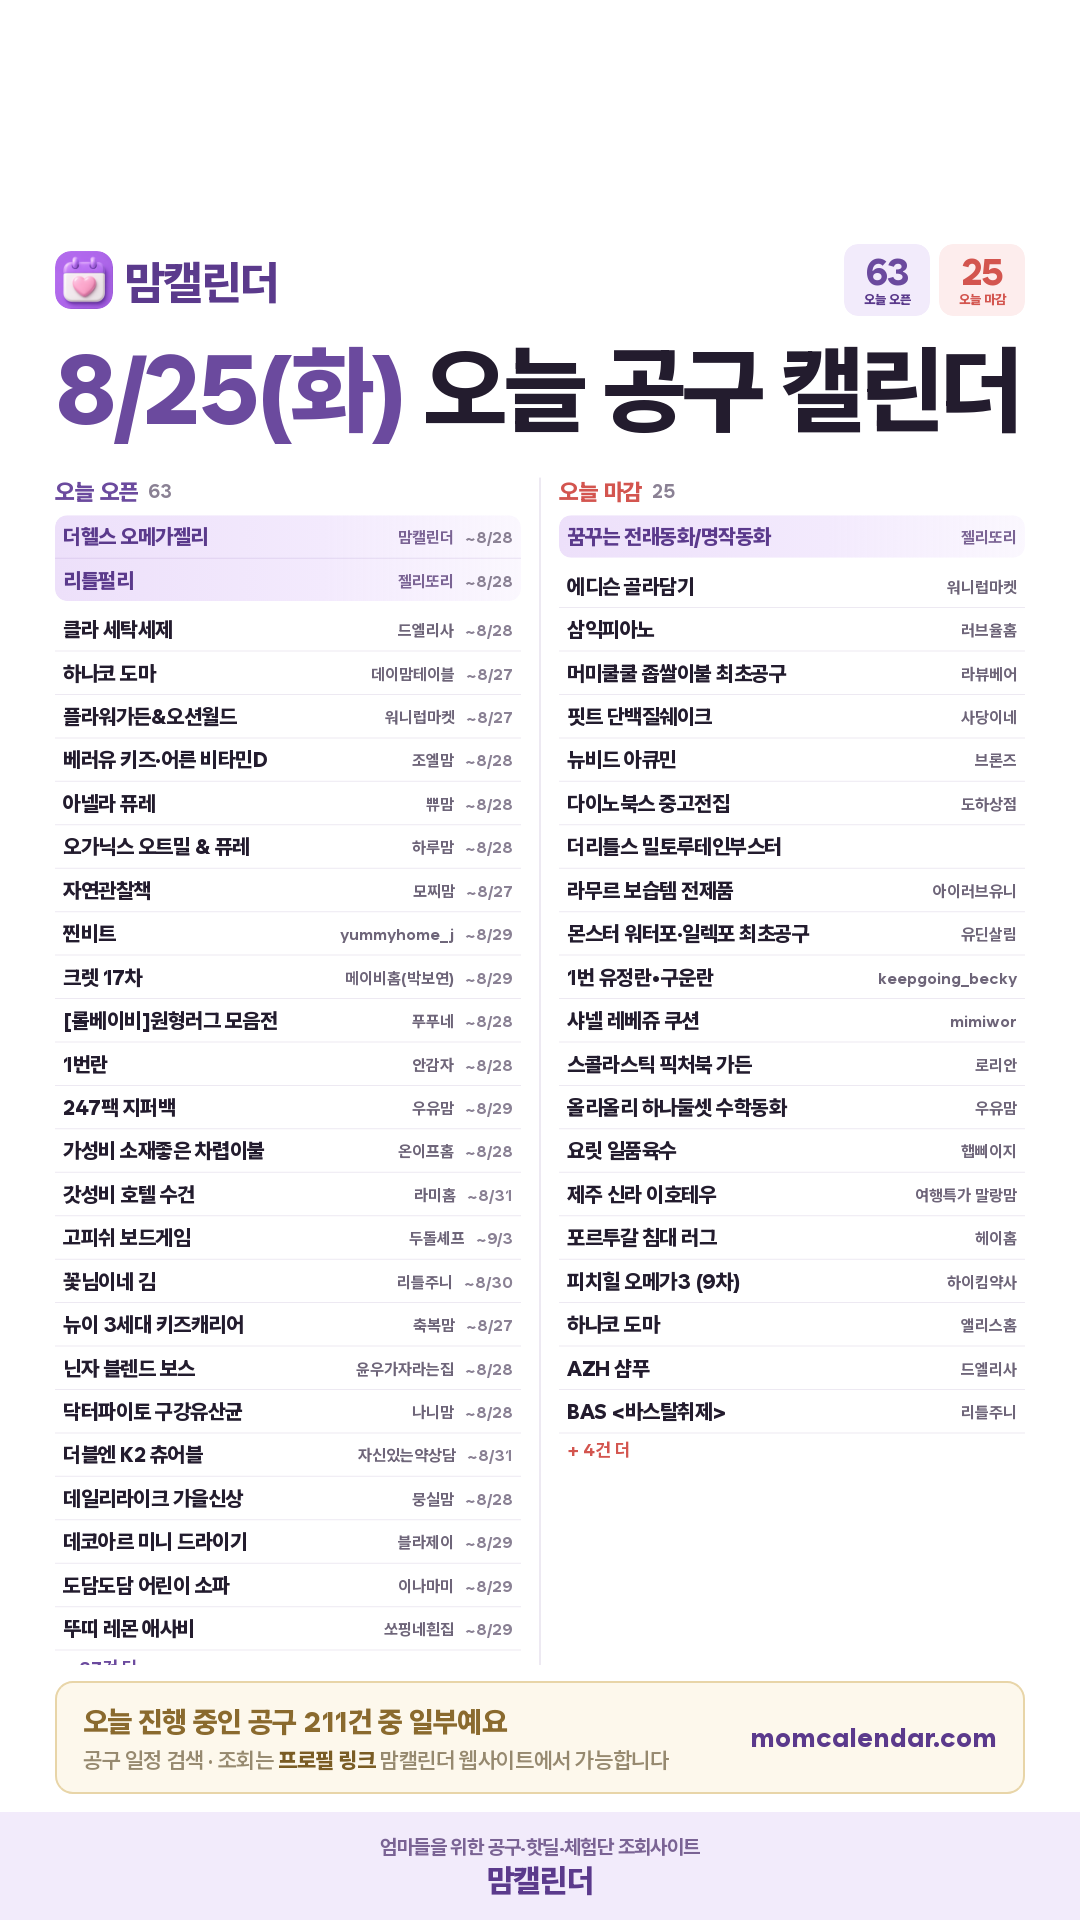
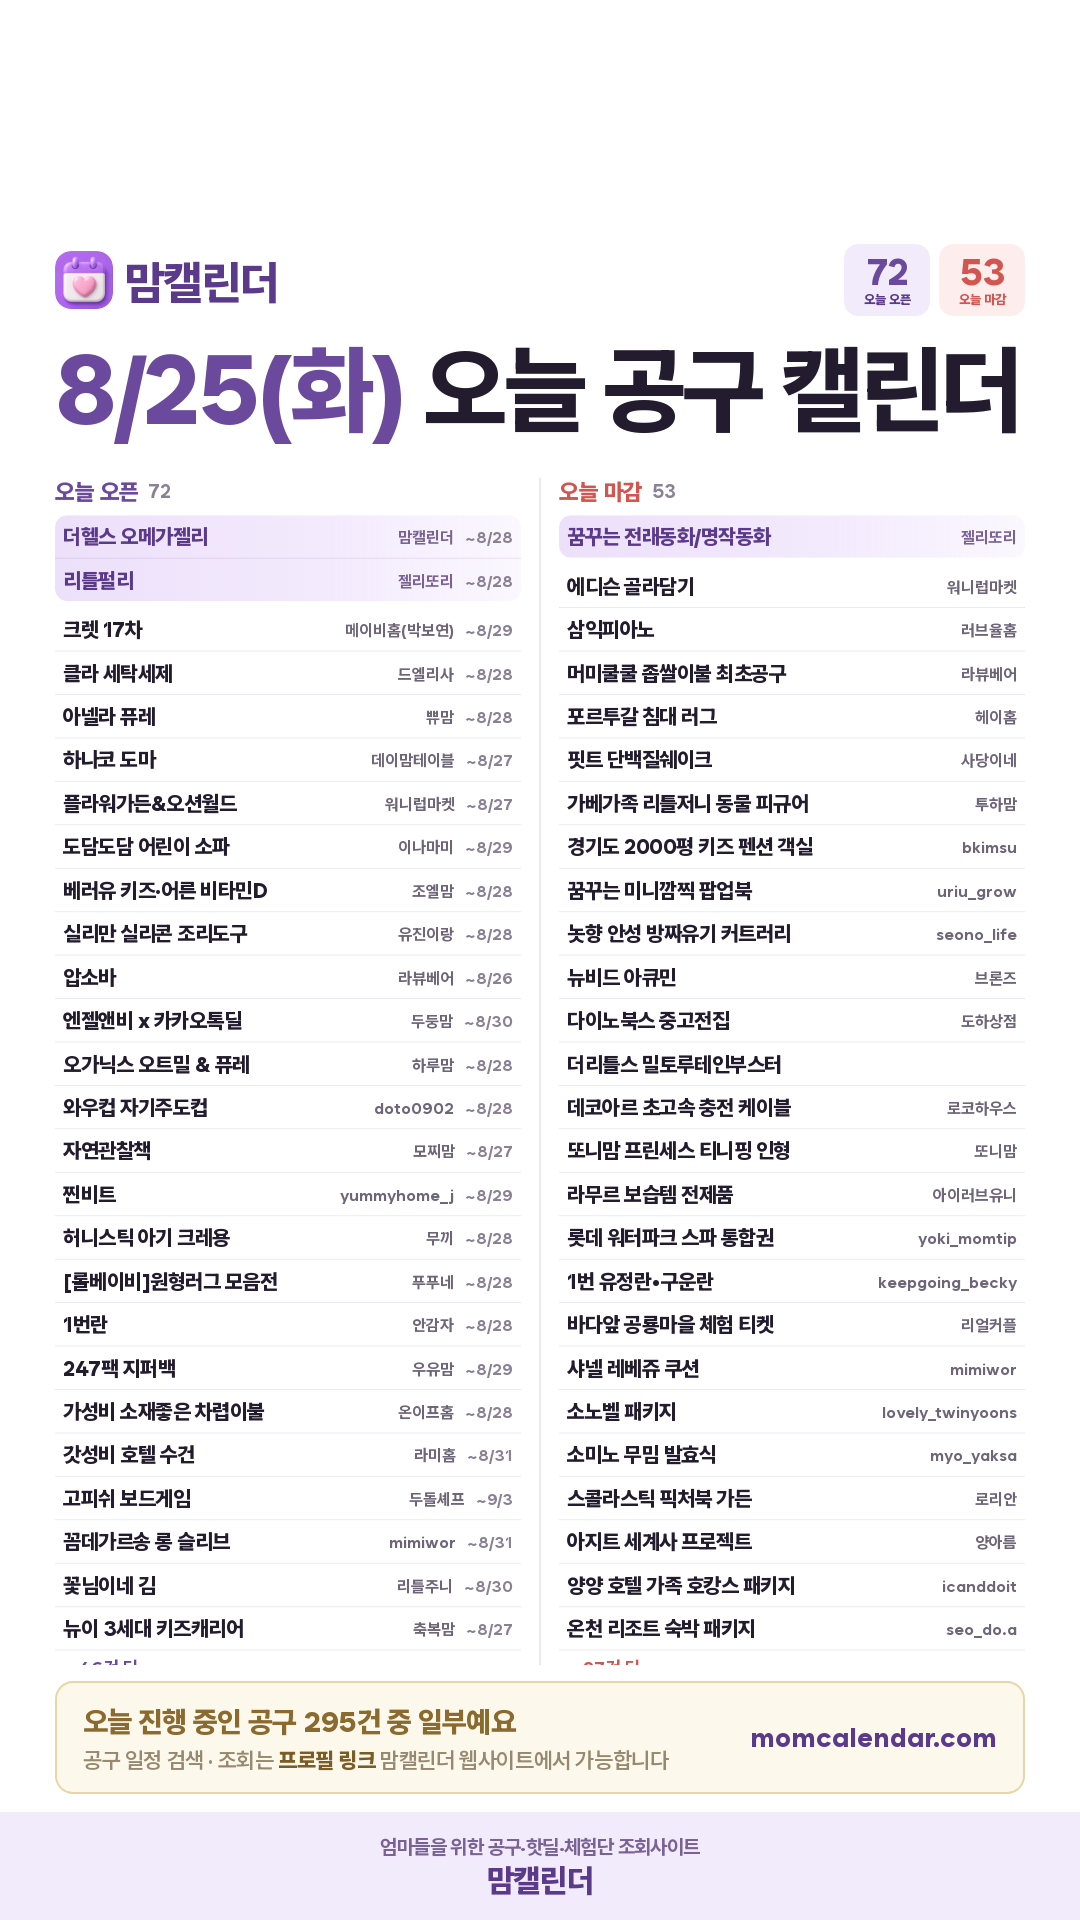
아침 인스타 카드 (2026-08-24)

diff --git a/daily/2026-08-25.html b/daily/2026-08-25.html
@@ -19,7 +19,7 @@ textarea{width:100%;height:260px;border:1px solid #E3DCEF;border-radius:10px;pad
 .todo p{font-size:12.5px;color:#6B6379;line-height:1.75;margin-top:6px}
 .todo a{color:#5B2E8C;font-weight:700}
 </style></head><body>
-<div class="hd"><div class="wrap"><h1>8월 25일(화) 인스타 카드</h1><p>오픈 63건 · 마감 25건</p></div></div>
+<div class="hd"><div class="wrap"><h1>8월 25일(화) 인스타 카드</h1><p>오픈 72건 · 마감 53건</p></div></div>
 <div class="wrap">
   
   <div class="card"><img src="./2026-08-25.png" alt="오늘 공구 카드"></div>
@@ -30,7 +30,7 @@ textarea{width:100%;height:260px;border:1px solid #E3DCEF;border-radius:10px;pad
 맘캘린더에서 공유드리는
 8월 25일(화) 오늘 공구 캘린더
 
-오픈 60건 · 마감 21건
+오픈 70건 · 마감 43건
 
 ━━━━━━━━━━━━━━
 
@@ -39,21 +39,28 @@ textarea{width:100%;height:260px;border:1px solid #E3DCEF;border-radius:10px;pad
 · 리틀펄리 — 젤리또리 @jelly_ddori (~8/28)
 
 🔓 오늘 오픈하는 공구
+· 크렛 17차 — 메이비홈(박보연) (~8/29)
 · 클라 세탁세제 — 드엘리사 (~8/28)
+· 아넬라 퓨레 — 쀼맘 (~8/28)
 · 하나코 도마 — 데이맘테이블 (~8/27)
 · 꼬비 플라워가든&amp;오션월드 — 워니럽마켓 (~8/27)
+· 도담도담 어린이 소파 — 이나마미 (~8/29)
 · 베러유 키즈·어른 비타민D — 조엘맘 (~8/28)
-· 아넬라 퓨레 — 쀼맘 (~8/28)
+· 실리만 플래티넘 실리콘 조리도구 — 유진이랑 (~8/28)
+· 압소바 — 라뷰베어 (~8/26)
+· 엔젤앤비 x 카카오톡딜 — 두둥맘 (~8/30)
 · 오가닉스 오트밀 &amp; 퓨레 — 하루맘 (~8/28)
+· 와우컵 자기주도컵 — doto0902 (~8/28)
 · 자연관찰책 — 모찌맘 (~8/27)
 · 찐비트 — yummyhome_j (~8/29)
-· 크렛 17차 — 메이비홈(박보연) (~8/29)
+· 허니스틱 비즈왁스 아기 크레용 — 무끼 (~8/28)
 · [롤베이비]원형러그 모음전 — 푸푸네 (~8/28)
 · 1번란 — 안감자 (~8/28)
 · 247팩 지퍼백 — 우유맘 (~8/29)
 · 가성비 소재좋은 차렵이불 — 온이프홈 (~8/28)
 · 갓성비 호텔 수건 — 라미홈 (~8/31)
 · 고피쉬 보드게임 — 두돌셰프 (~9/3)
+· 꼼데가르송 &amp; 메종키츠네 롱 슬리브 기획전 — mimiwor (~8/31)
 · 꽃님이네 김 — 리틀주니 (~8/30)
 · 뉴이 3세대 키즈캐리어 — 축복맘 (~8/27)
 · 닌자 블렌드 보스 — 윤우가자라는집 (~8/28)
@@ -61,51 +68,40 @@ textarea{width:100%;height:260px;border:1px solid #E3DCEF;border-radius:10px;pad
 · 더블엔 비타민D K2 츄어블 — 자신있는약상담 (~8/31)
 · 데일리라이크 가을신상 — 뭉실맘 (~8/28)
 · 데코아르 초경량 미니 드라이기 — 블라제이 (~8/29)
-· 도담도담 어린이 소파 — 이나마미 (~8/29)
-· 뚜띠 올리브·레몬·애사비 — 쏘핑네흰집 (~8/29)
-· 리얼더마 — 유한나 (~8/28)
-· 마켓올슨 17차 — simply_recipe (~8/28)
-· 뮤이 안심커버 — 애플맘 (~8/27)
-· 미닉스 미니 김치냉장고 — 뚜비두밥 (~8/27)
-· 미라클 갈비탕 — miracle_eunju119 (~8/26)
-· 빠이염 — 우동맘 (~8/28)
-· 뽀로로 책상·의자 — 주원맘 (~8/28)
-· 소중한 습관 — 도현맘 (~8/28)
-· 수학도둑 — master_yewon (~8/28)
-· 스타우브 세라믹 사각서빙 트레이 세트 — 꼼시키친 (~8/31)
-· 승천냉면 — 아이러브유니 (~8/29)
-· 쓱선·톤선크림 — ssun__flow (~8/28)
-· 아가드 하이체어 — 꼬미하우스 (~8/28)
-· 아람키즈 콩알이랑 — 토코맘 (~8/27)
-· 압소바 — 라뷰베어 (~8/26)
-· 엑소메라 커버 쿠션 — 바이요미 (~8/30)
-· 엔젤앤비 x 카카오톡딜 — 두둥맘 (~8/30)
-· 일랑 한식기세트 — 히히스카이라운지 (~8/30)
-· 자연치즈 울띠모피자 6종 — 명희홈쿡 (~8/30)
-…나머지 15건은 맘캘린더 사이트에서 보실 수 있어요
+…나머지 39건은 맘캘린더 사이트에서 보실 수 있어요
 
 ⏰ 오늘 마감하는 공구
 · 꿈꾸는 달팽이 사운드북 전래동화/명작동화 — 젤리또리 @jelly_ddori
 · 에디슨 골라담기 — 워니럽마켓
 · 삼익피아노 — 러브율홈
 · 머미쿨쿨 좁쌀이불 최초공구 — 라뷰베어
+· 포르투갈 침대 러그 — 헤이홈
 · 핏트 단백질쉐이크 — 사당이네
+· 가베가족 리틀저니 동물 피규어 — 투하맘
+· 경기도 2000평 키즈 펜션 객실 공구 — bkimsu
+· 꿈꾸는 달팽이 미니깜찍 팝업북 — uriu_grow
+· 놋향 안성 방짜유기 커트러리 — seono_life
 · 뉴비드 아큐민 — 브론즈
 · 다이노북스 중고전집 — 도하상점
 · 더리틀스 밀토루테인부스터 — 
+· 데코아르 멜로우 스냅백 초고속 충전 케이블 — 로코하우스
+· 또니맘 프린세스 티니핑 인형 — 또니맘
 · 라무르 보습템 전제품 — 아이러브유니
-· 몬스터 워터포·일렉포 최초공구 — 유딘살림
+· 롯데 도심형 온천 워터파크 스파 통합권 — yoki_momtip
 · 무항생제 1번 유정란•구운란 — keepgoing_becky
+· 바다앞 공룡마을 체험 티켓 — 리얼커플
 · 샤넬 레베쥬 쿠션 — mimiwor
+· 소노벨 단양 객실 조식 워터파크 패키지 — lovely_twinyoons
+· 소미노 밤콩두유, 식사대용 무밈 발효식 — myo_yaksa
 · 스콜라스틱 픽처북 가든 — 로리안
+· 아지트 세계사 프로젝트 — 양아름
+· 양양 신상 5성급 호텔 가족 호캉스 패키지 — icanddoit
+· 온천 리조트 숙박 패키지 — seo_do.a
 · 올리올리 하나둘셋 수학동화 — 우유맘
 · 요릿 일품육수 — 햅삐이지
-· 제주 신라 이호테우 — 여행특가 말랑맘
-· 포르투갈 침대 러그 — 헤이홈
-· 피치힐 오메가3 (9차) — 하이킴약사
-· 하나코 도마 — 앨리스홈
-· AZH 샴푸 — 드엘리사
-· BAS &lt;바스탈취제&gt; — 리틀주니
+· 웅진플레이도시 온천스파 워터파크 특가 티켓 — boa.mom_
+· 위드그로우 위너 책상 — 서진쌤
+…나머지 13건은 맘캘린더 사이트에서 보실 수 있어요
 
 ━━━━━━━━━━━━━━
 
@@ -118,7 +114,7 @@ textarea{width:100%;height:260px;border:1px solid #E3DCEF;border-radius:10px;pad
 ⚠ 공구 일정은 판매자 사정에 따라 변경되거나 조기 마감될 수 있어요. 구매 전에 해당 셀러 계정에서 한 번 더 확인해 주세요.
 
 #맘캘린더 #공구일정 #육아공구 #육아용품 #책육아 #영양제 #아기용품 #유아용품 #놀잇감 #공구오픈 #공구모음 #오늘의공구</textarea>
-    <div class="meta">2184자 / 2200자 · 오픈 43/58 · 마감 21/21</div>
+    <div class="meta">2178자 / 2200자 · 오픈 29/68 · 마감 30/43</div>
     <button class="btn btn2" onclick="cp('cap','캡션')">캡션 복사</button>
   </div>
   <div class="card">
@@ -136,12 +132,12 @@ textarea{width:100%;height:260px;border:1px solid #E3DCEF;border-radius:10px;pad
 · 카톡 수다방 → https://open.kakao.com/o/gr2kJhCh
 ─────────────
 
-8월 25일(화), 오늘 새로 오픈하는 인스타 공구일정 63건을 카테고리별로 정리했어요.
-오늘 마감되는 공구도 25건 있으니 놓치지 마세요.
+8월 25일(화), 오늘 새로 오픈하는 인스타 공구일정 72건을 카테고리별로 정리했어요.
+오늘 마감되는 공구도 53건 있으니 놓치지 마세요.
 
 (여기에 저장해 두신 카드 사진을 넣어주세요)
 
-■ 오늘 오픈하는 공구 63건
+■ 오늘 오픈하는 공구 72건
 
 [육아]
 · [롤베이비]원형러그 모음전 — 푸푸네 (~8/28 마감)
@@ -161,10 +157,10 @@ textarea{width:100%;height:260px;border:1px solid #E3DCEF;border-radius:10px;pad
 · 아람키즈 콩알이랑 — 토코맘 (~8/27 마감)
 · 압소바 — 라뷰베어 (~8/26 마감)
 · 오가닉스 오트밀 &amp; 퓨레 — 하루맘 (~8/28 마감)
-· 유기농 오트밀 포리지 + 퓨레 — 오늘하루맘 (~8/28 마감)
 · 자연관찰책 — 모찌맘 (~8/27 마감)
 · 주니 실리콘 미니빨대컵 — tocotoco_mom (~8/27 마감)
 · 지우개 — neuldanim_play (~8/29 마감)
+· 최저가 3세대 뉴이 키즈캐리어 — 2brone (~8/28 마감)
 · 티니핑 모래놀이 — 건이맘 (~8/29 마감)
 · 티니핑 워크북💛New 고래보석 도감💛20종 모음전 — 건이맘 (~8/28 마감)
 · 팝앤페인트 — 럭키마미 (~8/27 마감)
@@ -178,7 +174,11 @@ textarea{width:100%;height:260px;border:1px solid #E3DCEF;border-radius:10px;pad
 · 닌자 블렌드 보스 — 윤우가자라는집 (~8/28 마감)
 · 데일리라이크 가을신상 — 뭉실맘 (~8/28 마감)
 · 빠이염 — 우동맘 (~8/28 마감)
+· 스마트 디지털 액자 — sisimomhome (~8/28 마감)
+· 실리만 플래티넘 실리콘 조리도구 — 유진이랑 (~8/28 마감)
 · 엔젤앤비 x 카카오톡딜 — 두둥맘 (~8/30 마감)
+· 와우컵 자기주도컵 — doto0902 (~8/28 마감)
+· 왕타칫솔 — salim_jopd (~8/28 마감)
 · 일랑 한식기세트 — 히히스카이라운지 (~8/30 마감)
 · 짐샌더슨 트레이 — 예지홈 (~8/30 마감)
 · 크렛 17차 — 메이비홈(박보연) (~8/29 마감)
@@ -209,6 +209,7 @@ textarea{width:100%;height:260px;border:1px solid #E3DCEF;border-radius:10px;pad
 
 [뷰티]
 · 리얼더마 — 유한나 (~8/28 마감)
+· 세라일론 클래식 수딩밤 립크림 — 깎언니 (~8/28 마감)
 · 쓱선·톤선크림 — ssun__flow (~8/28 마감)
 · 엑소메라 커버 쿠션 — 바이요미 (~8/30 마감)
 
@@ -216,36 +217,72 @@ textarea{width:100%;height:260px;border:1px solid #E3DCEF;border-radius:10px;pad
 · 데코아르 초경량 미니 드라이기 — 블라제이 (~8/29 마감)
 · 지켜당 가마솥 밥맛 저당밥솥 — 츄미살림 (~8/28 마감)
 
+[패션]
+· DOWESEE 청바지 2종 — 감각제이 (~8/28 마감)
+· 꼼데가르송 &amp; 메종키츠네 롱 슬리브 기획전 — mimiwor (~8/31 마감)
+· 밀크베이비 F/W 신상 상하복 — kelley_mom_dad (~8/28 마감)
+
+[여행]
+· 하나투어 울릉도 독도 여행 패키지 — ummasae_home (~8/28 마감)
+
 [반려동물]
 · 정글몬스터 칫솔, 치약, 덴탈 — 0909iii09 (~8/31 마감)
 · 허니콤츄 구강 건강 루틴 3종 — sun_sim_ (~8/29 마감)
 
-■ 오늘 마감하는 공구 25건
+■ 오늘 마감하는 공구 53건
 · AZH 샴푸 — 드엘리사
 · BAS &lt;바스탈취제&gt; — 리틀주니
 · CJ 몬스터 워터포·일렉포 — 유딘살림
+· JBJ 청담 올스텐 빨래바구니 — 우아맘
+· 가베가족 리틀저니 동물 피규어 — 투하맘
+· 경기도 2000평 키즈 펜션 객실 공구 — bkimsu
+· 꿈꾸는 달팽이 미니깜찍 팝업북 — uriu_grow
 · 꿈꾸는 달팽이 사운드북 전래동화/명작동화 — 젤리또리
+· 놋향 안성 방짜유기 커트러리 — seono_life
 · 뉴비드 아큐민 — 브론즈
 · 다이노북스 중고전집 — 도하상점
 · 더리틀스 밀토루테인부스터 — 
+· 데코아르 멜로우 스냅백 초고속 충전 케이블 — 로코하우스
+· 데코아르 무선 초퍼 세트 — sallimplus
+· 또니맘 프린세스 티니핑 인형 — 또니맘
 · 라무르 보습템 전제품 — 아이러브유니
+· 로코하우스 모듈 정리함 — 로코하우스
+· 롯데 도심형 온천 워터파크 스파 통합권 — yoki_momtip
 · 머미쿨쿨 좁쌀이불 최초공구 — 라뷰베어
-· 몬스터 워터포·일렉포 최초공구 — 유딘살림
 · 무항생제 1번 유정란•구운란 — keepgoing_becky
+· 바다앞 공룡마을 체험 티켓 — 리얼커플
 · 삼익피아노 — 러브율홈
 · 샤넬 레베쥬 쿠션 — mimiwor
 · 샤넬 루쥬코코 글로스·듀오드밤 — mimiwor
+· 소노벨 단양 객실 조식 워터파크 패키지 — lovely_twinyoons
+· 소미노 밤콩두유, 식사대용 무밈 발효식 — myo_yaksa
 · 스콜라스틱 픽처북 가든 — 로리안
+· 아지트 세계사 프로젝트 — 양아름
+· 양양 신상 5성급 호텔 가족 호캉스 패키지 — icanddoit
 · 에디슨 골라담기 — 워니럽마켓
+· 엘레나 질유산균 — 
+· 온천 리조트 숙박 패키지 — seo_do.a
 · 올리올리 하나둘셋 수학동화 — 우유맘
 · 요릿 일품육수 — 햅삐이지
+· 웅진플레이도시 온천스파 워터파크 특가 티켓 — boa.mom_
+· 위드그로우 위너 책상 — 서진쌤
+· 유기농 계란 — 여울맘
+· 이너시아 유기농 순면 생리대 입는 오버나이트 — wiz_home_
+· 일프로 가을신상&amp;등원복 — 
+· 제이앤제이 세라믹시리즈 식기 — 로코하우스
 · 제주 신라 이호테우 — 여행특가 말랑맘
 · 케어백 — 사당이네
+· 코에르 미끄럼방지 욕실 매트 — leesoo_bubu
 · 트위기 아기방 램프 — 우유맘
+· 티니핑 가방 지갑 썬캡 팔토시 모음전 — 다겨미네
+· 틴트•블러시 마켓 — 플리에
 · 포르투갈 침대 러그 — 헤이홈
+· 포티니 접이식 빨래 건조대 — d.nine.84
+· 프리모 리조트 올인클루시브 패키지 — pdjin
 · 피치힐 오메가3 (9차) — 하이킴약사
 · 핏트 단백질쉐이크 — 사당이네
 · 하나코 도마 — 앨리스홈
+· 하코야 304 스테인리스 냄비 — foryou_home87
 
 ■ 오늘의 브랜드: 데코아르
 · 데코아르 공구는 인스타 셀러들이 기간을 정해 여는 공동구매예요. 최근에는 또마맘, 다미소미맘, 블라제이 님이 진행했어요.

diff --git a/daily/index.html b/daily/index.html
@@ -1,1 +1,1 @@
-<!DOCTYPE html><meta charset="UTF-8"><meta http-equiv="refresh" content="0;url=./2026-08-24.html">
+<!DOCTYPE html><meta charset="UTF-8"><meta http-equiv="refresh" content="0;url=./2026-08-25.html">
